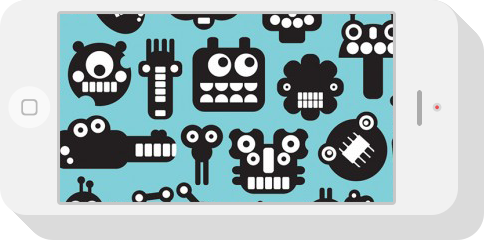
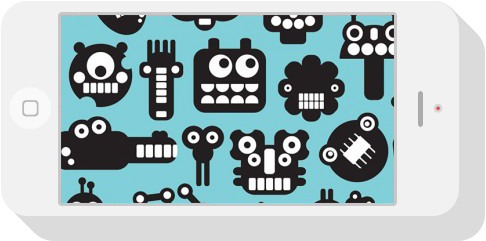
feat: change layout pages

diff --git a/index.html b/index.html
@@ -13,7 +13,7 @@
         
         header{
             width: 1020px;
-            height: 89px;
+            height: 90px;
             background-color: #2d303a;
             border-bottom: solid 6px #323746;
             display: flex;
@@ -57,7 +57,7 @@
        }
        div.menu{
            margin-right:40px;
-           padding-top: 43px;
+           padding-top: 44px;
            display: flex;
            width: 372px;
            justify-content: space-between;
@@ -70,7 +70,7 @@
         
        }
        div.logo{
-           padding-top:32px;
+           padding-top:33px;
            padding-left:40px;
        }
        div.servHead>h2{
@@ -89,13 +89,14 @@
         color: #767e9e;
         font-family: "Lato Light";
         font-weight: 300;
-        text-align: left;
-        word-spacing: 1px;
-        margin-top: 28px;
+        text-align: justify;
+        
+        margin-top: 27px;
        }
        div.servHead{
         padding-left:40px;
         padding-top:68px;
+        padding-bottom: 47px;
        }
        div.slider{
 
@@ -115,6 +116,60 @@
        .firstRow div, div.secRow div{
            width:300px;
            height:87px;
+       }
+       div.firstRow>div>h3, div.secRow>div>h3{
+        font-size: 18px;
+        color: #666d89;
+        font-family: "Lato Black";
+        font-weight: 900;
+        padding-bottom: 11px;
+       }
+     
+       div.firstRow>div>p, div.secRow>div>p{
+        width: 219px;
+        font-size: 12px;
+        line-height: 22px;
+        color: #767e9e;
+        font-family: "Lato Regular";
+        font-weight: 400;
+        text-align: left;
+        text-align: justify;
+       }
+       div.firstRow{
+           padding-bottom: 36px;
+       }
+       div.firstRow>div, div.secRow>div{
+        padding-left: 80px;
+       }
+       div.pen{
+           background-image:  url('assets/pen.png');
+           background-repeat: no-repeat;
+           background-position: 0% 10%;
+       }
+       div.bulb{
+           background-image:  url('assets/bulb.png');
+           background-repeat: no-repeat;
+           background-position: 0% 10%;
+       }
+       div.love{
+           background-image:  url('assets/heart.png');
+           background-repeat: no-repeat;
+           background-position: 0% 10%;
+       }
+       div.phone{
+           background-image:  url('assets/phone.png');
+           background-repeat: no-repeat;
+           background-position: 0% 10%;
+       }
+       div.bubble{
+           background-image:  url('assets/bubble.png');
+           background-repeat: no-repeat;
+           background-position: 0% 10%;
+       }
+       div.star{
+           background-image:  url('assets/star.png');
+           background-repeat: no-repeat;
+           background-position: 0% 10%;
        }
     </style>
 </head>
@@ -139,8 +194,8 @@
     </header>
     <div class="slider">
         <div><a><img src="assets/arrow_left.png"></a></div>
-        <div><img src="assets/iPhoneVertical.png" style="margin-left: -2px; margin-top: -2px;"></div>
-        <div><img src="assets/iPhoneHorizontal.png" style="padding-left: 19px;"></div>
+        <div><img src="assets/iPhoneVertical.png" style="margin-left: -2px; margin-top: -0.24em;"></div>
+        <div><img src="assets/iPhoneHorizontal.png" style="padding-left: 16px; margin-top: -4px;"></div>
         <div><a><img src="assets/arrow_right.png"></a></div>
     </div>
     <div class="ourServices">
@@ -149,31 +204,31 @@
             <p>Fusce dapibus, tellus ac cursus commodo, tortor mauris condimentum. Duis mollis, non commodo luctus, nisi erat porttitor ligula, eget lacinia odio sem nec elit. Fusce dapibus, tellus ac cursus commodo, tortor mauris condimentum nibh.</p>
         </div>
         <div class="firstRow">
-            <div>
-                <p>Custom Design</p>
+            <div class="pen">
+                <h3>Custom Design</h3>
                 <p>Curabitur vestibulum eget mauris quis laoreet. Phasellus in quam laoreet, viverra lacus ut, ultrices velit.</p>
             </div>
-            <div>
-                <p>Inovative Ideas</p>
+            <div class="bulb">
+                <h3>Inovative Ideas</h3>
                 <p>Quisque luctus, quam eget molestie commodo, lacus purus cursus purus, nec rutrum tellus dolor id lorem.</p>
             </div>
-            <div>
-                <p>Love Is The Answer</p>
+            <div class="love">
+                <h3>Love Is The Answer</h3>
                 <p>Nulla sed nunc et tortor luctus faucibus. Morbi at aliquet turpis, et consequat felis. Quisque condimentum.</p>
             </div>
         </div>
         
         <div class="secRow">
-            <div>
-                <p>Responsive Layot</p>
+            <div class="phone">
+                <h3>Responsive Layot</h3>
                 <p>Sed porttitor placerat rhoncus. In at nunc tellus. Maecenas blandit nunc ligula. Praesent elit leo.</p>
             </div>
-            <div>
-                <p>24/7 Support</p>
+            <div class="bubble">
+                <h3>24/7 Support</h3>
                 <p>Vivamus vel quam lacinia, tincidunt dui non, vehicula nisi. Nulla a sem erat. Pellentesque egestas venenatis lorem .</p>
             </div>
-            <div>
-                <p>Feel Like A Star</p>
+            <div class="star">
+                <h3>Feel Like A Star</h3>
                 <p>Quisque hendrerit purus dapibus, ornare nibh vitae, viverra nibh. Fusce vitae aliquam tellus.</p>
             </div>
         </div>

diff --git a/assets/fonts.css b/assets/fonts.css
@@ -44,3 +44,13 @@
     src: local('Lato Black'), local('Lato-Black'), url(https://fonts.gstatic.com/s/lato/v16/S6u9w4BMUTPHh50XSwiPGQ.woff2) format('woff2');
     unicode-range: U+0000-00FF, U+0131, U+0152-0153, U+02BB-02BC, U+02C6, U+02DA, U+02DC, U+2000-206F, U+2074, U+20AC, U+2122, U+2191, U+2193, U+2212, U+2215, U+FEFF, U+FFFD;
   }
+
+  /* latin */
+@font-face {
+  font-family: 'Lato Regular';
+  font-style: normal;
+  font-weight: 400;
+  font-display: swap;
+  src: local('Lato Regular'), local('Lato-Regular'), url(https://fonts.gstatic.com/s/lato/v16/S6uyw4BMUTPHjx4wXg.woff2) format('woff2');
+  unicode-range: U+0000-00FF, U+0131, U+0152-0153, U+02BB-02BC, U+02C6, U+02DA, U+02DC, U+2000-206F, U+2074, U+20AC, U+2122, U+2191, U+2193, U+2212, U+2215, U+FEFF, U+FFFD;
+}
